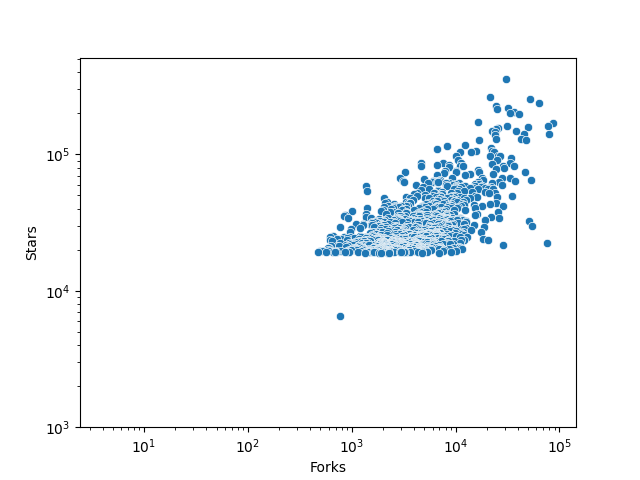
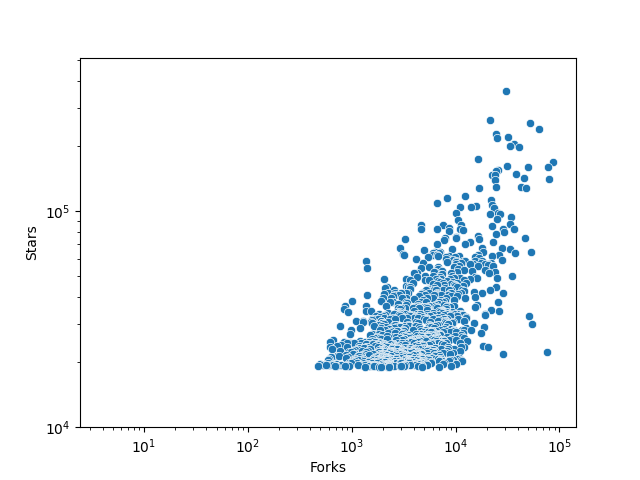
Making small change to get the correct range for stars and forks

diff --git a/Experiment_2/stars_forks.py b/Experiment_2/stars_forks.py
@@ -18,7 +18,7 @@ def main():
                     ylabel="Stars",
                     xscale="log",
                     yscale="log",
-                    ylim=1000)
+                    ylim=10000)
 
     plt.show()
 
